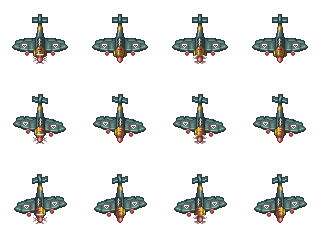
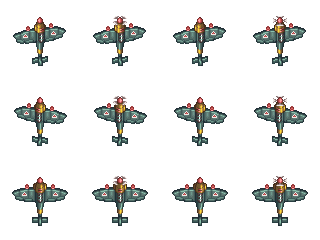
プレイヤー画像調節

diff --git a/competition/Objects/Character/Player/PlayerStats.h b/competition/Objects/Character/Player/PlayerStats.h
@@ -15,6 +15,7 @@ struct PlayerStats
 	float attack_power = 1.0f;
 	float move_speed = 0.0f;
 	float shot_speed = 0.3f;
+	int shot_speed_cnt = 0;
 	int life_count = 3;
 	int Shield_count = 3;
 	int player_level = 1;

diff --git a/competition/Objects/Character/Player/Player.h b/competition/Objects/Character/Player/Player.h
@@ -37,6 +37,10 @@ private:
 	int death_image_count;
 	float death_animation_interval;
 
+	float animation_timer;
+	int animation_frame_index;
+	float animation_interval;
+
 
 public:
 
